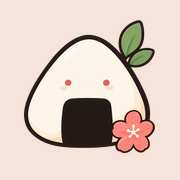
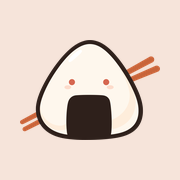
New mascot: the screaming onigiri on chopsticks, as an SVG
The leaves and sakura gave way to orange chopsticks (two flowers next to
the title was too much), matching the title's chopstick. It's traced to a
clean SVG by branding/make_svg_mascot.py and used on the login screen, the
startup screen and the website, and for the app icons and launch screens.
make_icons.py now sizes the round and adaptive icons so the chopstick ends
stay inside the circle launchers keep.

diff --git a/site/index.html b/site/index.html
@@ -5,13 +5,13 @@
     <meta name="viewport" content="width=device-width, initial-scale=1" />
     <title>Bentotachi</title>
     <meta name="description" content="Bentotachi: a recipe box, dinner plan, shopping list and pantry for your household. Private, free, and kept on your own phone." />
-    <link rel="icon" href="bento-logo.png" />
+    <link rel="icon" href="onigiri.svg" />
     <link rel="stylesheet" href="style.css" />
   </head>
   <body>
     <main>
       <header class="hero">
-        <img class="logo" src="bento-logo.png" alt="" width="120" height="120" />
+        <img class="logo" src="onigiri.svg" alt="" width="160" height="115" />
         <img class="title title-light" src="bentotachi-title.svg" alt="Bentotachi" />
         <img class="title title-dark" src="bentotachi-title-dark.svg" alt="Bentotachi" />
         <p class="tagline">RECIPES • PLAN • PANTRY • TOGETHER</p>

diff --git a/site/privacy.html b/site/privacy.html
@@ -5,7 +5,7 @@
     <meta name="viewport" content="width=device-width, initial-scale=1" />
     <title>Bentotachi privacy policy</title>
     <meta name="description" content="What the Bentotachi app does with your information." />
-    <link rel="icon" href="bento-logo.png" />
+    <link rel="icon" href="onigiri.svg" />
     <link rel="stylesheet" href="style.css" />
   </head>
   <body>

diff --git a/web/src/Brand.tsx b/web/src/Brand.tsx
@@ -1,6 +1,6 @@
 import title from "./assets/bentotachi-title.svg";
 import titleDark from "./assets/bentotachi-title-dark.svg";
-import logo from "./assets/bento-logo.png";
+import logo from "./assets/onigiri.svg";
 
 // The "Bentotachi" title, in dark letters or (in dark mode) cream ones.
 export function BentoTitle({ className }: { className?: string }) {

diff --git a/site/style.css b/site/style.css
@@ -60,8 +60,8 @@ h2 {
 }
 
 .hero .logo {
-  width: 120px;
-  height: 120px;
+  width: 160px;
+  height: auto;
 }
 
 .hero .title {

diff --git a/web/src/styles.css b/web/src/styles.css
@@ -1533,7 +1533,7 @@ legend {
 }
 
 .login-logo {
-  width: 112px;
+  width: 150px;
   height: auto;
 }
 

diff --git a/branding/make_svg_mascot.py b/branding/make_svg_mascot.py
@@ -1,0 +1,109 @@
+# Turns the onigiri mascot (Onigiri.png: the skewered, screaming one) into a
+# clean SVG with a see-through background: onigiri.svg.
+#
+# The outline and nori, the chopsticks, the shading and the highlight are
+# traced with Inkscape 1.4's tracer from enlarged, smoothed masks. The eyes and
+# blush are drawn as circles and ellipses where they are in the picture, so
+# moods can change them easily. The body's cream is the same colour as the
+# picture's background, so it's found as "inside the outline" instead.
+#
+#   python make_svg_mascot.py Onigiri.png <output folder>
+import os
+import re
+import subprocess
+import sys
+import tempfile
+
+import numpy as np
+from PIL import Image, ImageFilter
+from scipy import ndimage
+
+INKSCAPE = r"C:\Program Files\Inkscape\bin\inkscape.com"
+S = 3  # enlarge by this much before tracing
+src, out = sys.argv[1], sys.argv[2]
+
+im = Image.open(src).convert("RGB")
+w, h = im.size
+a = np.asarray(im.resize((w * S, h * S), Image.LANCZOS)).astype(float)
+r, g, b = a[..., 0], a[..., 1], a[..., 2]
+lum = 0.299 * r + 0.587 * g + 0.114 * b
+
+dark = lum < 90  # the outline and the nori
+body = ndimage.binary_fill_holes(dark)  # the outline and everything inside it
+inside = ndimage.binary_erosion(body, iterations=4 * S) & ~dark
+orange = (r > 170) & (g > 70) & (g < 150) & (b < 110)
+parts = {
+    "chopsticks": orange & ~body,
+    "body": body,
+    "shade": inside & (r > 235) & (g > 225) & (g < 243) & (b < 228) & (b > 205),
+    "highlight": inside & (g > 252) & (b > 252),
+    "dark": dark,
+}
+eyes = inside & orange
+blush = inside & (r > 235) & (g > 205) & (g < 228) & (b > 190) & (b < 214)
+
+tmp = tempfile.mkdtemp()
+
+
+def trace(name, mask):
+    img = Image.fromarray(np.where(mask, 0, 255).astype(np.uint8))
+    img = img.filter(ImageFilter.MedianFilter(5)).filter(ImageFilter.GaussianBlur(S * 0.8))
+    img.point(lambda v: 0 if v < 128 else 255).save(os.path.join(tmp, name + ".png"))
+    with open(os.path.join(tmp, "in.svg"), "w") as f:
+        f.write(f'<svg xmlns="http://www.w3.org/2000/svg" xmlns:xlink="http://www.w3.org/1999/xlink" '
+                f'width="{w * S}" height="{h * S}"><image id="img" x="0" y="0" width="{w * S}" '
+                f'height="{h * S}" xlink:href="{name}.png"/></svg>')
+    # Two colour scans, background removed: just the black shape is left.
+    subprocess.run([INKSCAPE, "--actions=select-by-id:img;object-trace:2,false,false,true,60,1.0,0.2;"
+                    "export-plain-svg;export-filename:out.svg;export-do", "in.svg"],
+                   check=True, capture_output=True, cwd=tmp)
+    paths = re.findall(r'<path[^>]*?\sd="([^"]+)"', open(os.path.join(tmp, "out.svg")).read())
+    assert len(paths) == 1, (name, len(paths))
+    return paths[0]
+
+
+def blobs(mask, count):
+    """The `count` biggest spots in a mask, as (x, y, half-width, half-height), left to right."""
+    labels, n = ndimage.label(mask)
+    sizes = ndimage.sum(mask, labels, range(1, n + 1))
+    found = []
+    for label in np.argsort(sizes)[::-1][:count] + 1:
+        ys, xs = np.nonzero(labels == label)
+        found.append((xs.mean(), ys.mean(), (xs.max() - xs.min() + 1) / 2, (ys.max() - ys.min() + 1) / 2))
+    assert len(found) == count, (count, len(found))
+    return sorted(found)
+
+
+traced = {name: trace(name, mask) for name, mask in parts.items()}
+eye_spots = blobs(eyes, 2)
+# The shading's edge is blush-coloured too: look only just under the eyes.
+eye_y = int(eye_spots[0][1])
+near_eyes = np.zeros_like(blush)
+near_eyes[eye_y:eye_y + 90 * S] = True
+blush_spots = blobs(blush & near_eyes, 2)
+
+ys, xs = np.nonzero(body | parts["chopsticks"])
+pad = 12 * S
+x0, y0, x1, y1 = xs.min() - pad, ys.min() - pad, xs.max() + pad, ys.max() + pad
+eye_shapes = "\n".join(f'  <circle cx="{x:.0f}" cy="{y:.0f}" r="{(rx + ry) / 2:.0f}"/>' for x, y, rx, ry in eye_spots)
+blush_shapes = "\n".join(f'  <ellipse cx="{x:.0f}" cy="{y:.0f}" rx="{rx:.0f}" ry="{ry:.0f}"/>' for x, y, rx, ry in blush_spots)
+
+svg = f'''<svg xmlns="http://www.w3.org/2000/svg" viewBox="{x0} {y0} {x1 - x0} {y1 - y0}" role="img" aria-label="Bentotachi's onigiri">
+<title>Bentotachi's onigiri</title>
+<path id="chopsticks" d="{traced["chopsticks"]}" fill="#c8643a"/>
+<path id="body" d="{traced["body"]}" fill="#fef7ed"/>
+<path id="shade" d="{traced["shade"]}" fill="#feeddb"/>
+<path id="highlight" d="{traced["highlight"]}" fill="#ffffff"/>
+<g id="blush" fill="#fddccb">
+{blush_shapes}
+</g>
+<g id="eyes" fill="#d66750">
+{eye_shapes}
+</g>
+<path id="outline-and-nori" d="{traced["dark"]}" fill="#2e201b" fill-rule="evenodd"/>
+</svg>
+'''
+with open(os.path.join(out, "onigiri.svg"), "w") as f:
+    f.write(svg)
+print("eyes", [tuple(round(v) for v in e) for e in eye_spots], "blush", [tuple(round(v) for v in e) for e in blush_spots])
+print("sizes", {k: len(v) for k, v in traced.items()})

diff --git a/branding/make_icons.py b/branding/make_icons.py
@@ -27,6 +27,18 @@ def placed(canvas_size, share, background=(0, 0, 0, 0)):
     return canvas
 
 
+def fitted(canvas_size, radius_share, background=(0, 0, 0, 0)):
+    """Like placed(), but sized so every visible bit of the logo is within a
+    circle `radius_share` of the canvas wide (the chopstick ends reach the
+    corners, where a round launcher would cut them off)."""
+    alpha = logo.getchannel("A").point(lambda v: 255 if v > 24 else 0)
+    cx, cy = logo.width / 2, logo.height / 2
+    far = max(((x - cx) ** 2 + (y - cy) ** 2) ** 0.5
+              for x, y in ((x, y) for y in range(0, logo.height, 2) for x in range(0, logo.width, 2))
+              if alpha.getpixel((x, y)))
+    return placed(canvas_size, radius_share * max(logo.size) / (2 * far), background)
+
+
 def masked(image, shape):
     """Cuts an icon to a circle or a rounded square, smoothly (drawn 4x, shrunk)."""
     big = image.size[0] * 4
@@ -44,13 +56,13 @@ def masked(image, shape):
 for name, factor in DENSITIES.items():
     folder = os.path.join(res, f"mipmap-{name}")
     # Adaptive icon foreground: 108dp, with everything inside the middle
-    # circle every launcher shape keeps (sized so the leaf tip fits).
-    placed(round(108 * factor), 0.53).save(os.path.join(folder, "ic_launcher_foreground.png"), optimize=True)
+    # 66dp circle every launcher shape keeps (a little inside it, to breathe).
+    fitted(round(108 * factor), 0.58).save(os.path.join(folder, "ic_launcher_foreground.png"), optimize=True)
     # Older Android: a finished square and round icon.
     size = round(48 * factor)
     full = placed(size, 0.78, ICON_BG)
     masked(full, "square").save(os.path.join(folder, "ic_launcher.png"), optimize=True)
-    masked(placed(size, 0.66, ICON_BG), "circle").save(os.path.join(folder, "ic_launcher_round.png"), optimize=True)
+    masked(fitted(size, 0.88, ICON_BG), "circle").save(os.path.join(folder, "ic_launcher_round.png"), optimize=True)
 
 # Launch screens: keep each existing file's size, onigiri in the middle.
 for path in glob.glob(os.path.join(res, "drawable*", "splash.png")):
@@ -67,7 +79,7 @@ placed(64, 0.94).save(os.path.join(public, "favicon.png"), optimize=True)
 placed(180, 0.78, ICON_BG).convert("RGB").save(os.path.join(public, "apple-touch-icon.png"), optimize=True)
 
 # Previews of the adaptive icon as launchers show it: circle, squircle, square.
-fg = placed(432, 0.53)
+fg = fitted(432, 0.58)
 tile = Image.new("RGBA", (432, 432), ICON_BG)
 tile.alpha_composite(fg)
 row = Image.new("RGBA", (3 * 300 + 40, 340), (40, 40, 40, 255))

diff --git a/branding/README.md b/branding/README.md
@@ -1,33 +1,41 @@
 # Bentotachi's logo and title
 
-Xel's originals:
+Xel's originals (both made with ChatGPT, on a flat cream background):
 
-- `BentoLogo.png`: the onigiri (already has a see-through background).
-- `BentotachiTitle.png`: the drawn "Bentotachi" title (made with ChatGPT),
-  on a flat cream background. (The old "Bento" title and its script are in
-  the git history, before November 2026.)
+- `Onigiri.png`: the mascot, a screaming onigiri skewered on chopsticks.
+  The screaming is on purpose: Bentotachi doesn't take itself seriously.
+- `BentotachiTitle.png`: the drawn "Bentotachi" title.
+
+(The old onigiri with the leaves and sakura, and the old "Bento" title, are
+in the git history, before November 2026.)
 
 The scripts turn them into what the app uses. Run them from the `web`
 folder:
 
 ```
 python ../branding/make_svg_title.py ../branding/BentotachiTitle.png src/assets
-python ../branding/make_icons.py ../branding/BentoLogo.png android/app/src/main/res public <any scratch folder>
+python ../branding/make_svg_mascot.py ../branding/Onigiri.png src/assets
+"C:\Program Files\Inkscape\bin\inkscape.com" src/assets/onigiri.svg --export-type=png --export-width=1024 --export-filename=<scratch folder>/onigiri.png
+python ../branding/make_icons.py <scratch folder>/onigiri.png android/app/src/main/res public <scratch folder>
 ```
 
-- `make_svg_title.py` traces the title into clean SVGs:
-  `src/assets/bentotachi-title.svg` (dark letters) and
-  `bentotachi-title-dark.svg` (cream letters, for dark mode). It needs
-  Python with Pillow and numpy, and Inkscape 1.4 (its tracer does the
-  curves). Copy both files to `../site/` too, for the website.
-- `make_icons.py` makes the Android launcher icons (every density, plus the
-  adaptive icon sized so round launchers don't clip the leaf), the Android
-  launch screens, and the web tab icons in `public/`. It needs Pillow, numpy
-  and scipy. The fourth folder gets a preview of the icon in circle and
-  square shapes.
+Copy the three SVGs (`bentotachi-title.svg`, `bentotachi-title-dark.svg`,
+`onigiri.svg`) to `../site/` too, for the website.
 
-`src/assets/bento-logo.png` (the login screen's onigiri) is the logo cropped
-and shrunk to 360 px.
+- `make_svg_title.py` traces the title into clean SVGs:
+  `bentotachi-title.svg` (dark letters) and `bentotachi-title-dark.svg`
+  (cream letters, for dark mode).
+- `make_svg_mascot.py` traces the onigiri into `onigiri.svg`, with a
+  see-through background. Each part has its own id (chopsticks, body,
+  shade, highlight, blush, eyes, outline-and-nori), and the eyes and blush
+  are plain circles and ellipses, so moods can change them.
+- Both need Python with Pillow and numpy (the mascot also scipy), and
+  Inkscape 1.4, whose tracer does the curves.
+- `make_icons.py` makes the Android launcher icons (every density; the
+  adaptive and round icons are sized so a round launcher doesn't cut off the
+  chopstick ends), the Android launch screens, and the web tab icons in
+  `public/`. It needs Pillow. The fourth folder gets a preview of the icon in
+  circle and square shapes.
 
 The colours: chopstick orange #C8643A (clear on both the light and dark
 backgrounds), letters #361F17 or, in dark mode, #F1EBE5. The icon background

diff --git a/docs/PLAN.md b/docs/PLAN.md
@@ -192,6 +192,10 @@ Changes already live in the browser version, not yet in a published APK
   drawn title (branding/make_svg_title.py) is an SVG, light and dark. The
   app ID `com.xel.bento`, saved settings, the Pi service, code names and the
   friends' server package (Start Bento.bat, its guide) keep "Bento".
+- The new mascot (2026-11-01): the screaming onigiri, now skewered on
+  orange chopsticks instead of the leaves and sakura (friends found two
+  flowers too much next to the title). It's an SVG on the login screen and
+  website, and the new app icon and launch screen (branding/README.md).
 - Phone-only backups are suggested as `bentotachi-backup-<date>-<time>.zip`
   in the phone's own time (the phone's server runs on UTC, so the old
   `bento-…` name could be a day off). Phone-only mode was tested on a real
